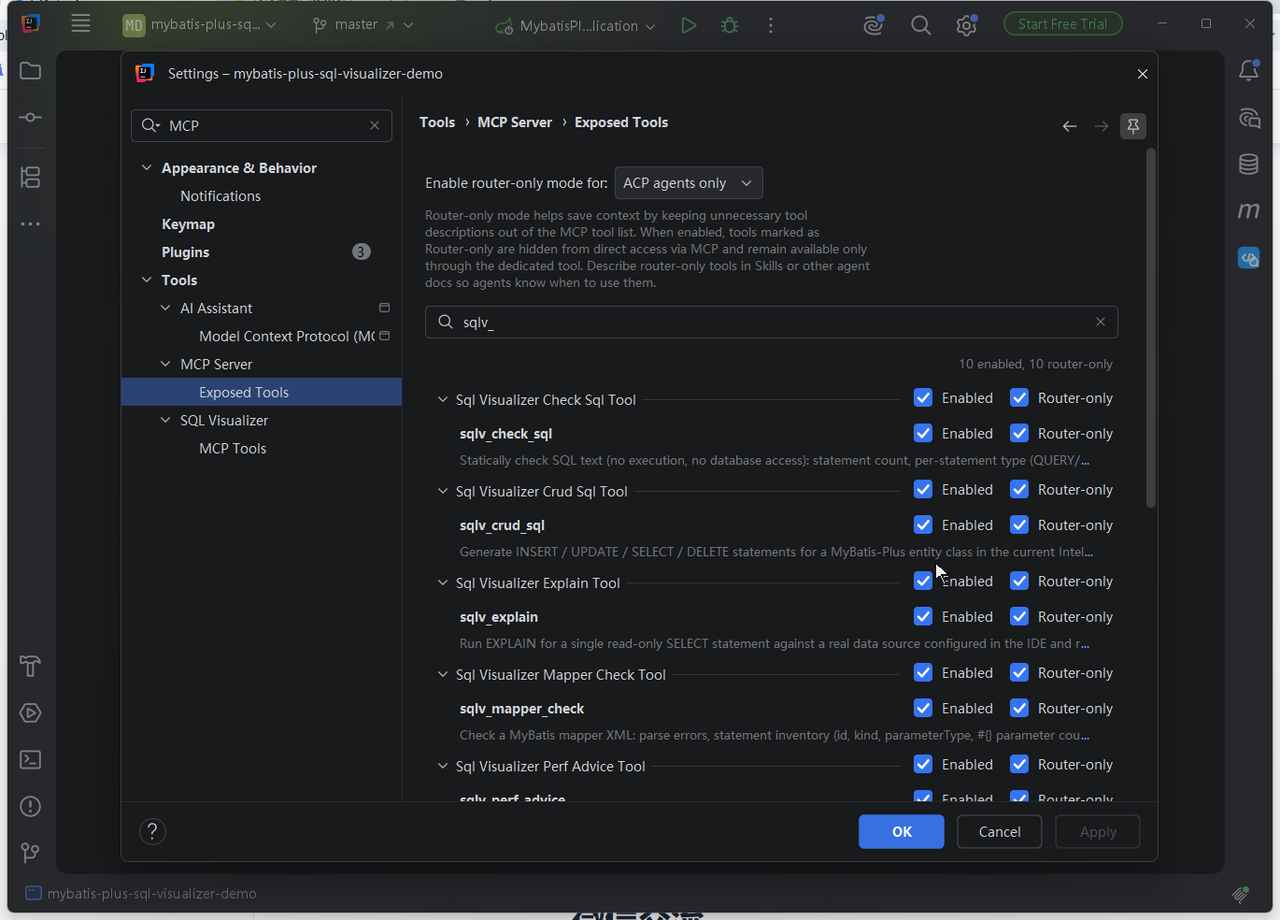
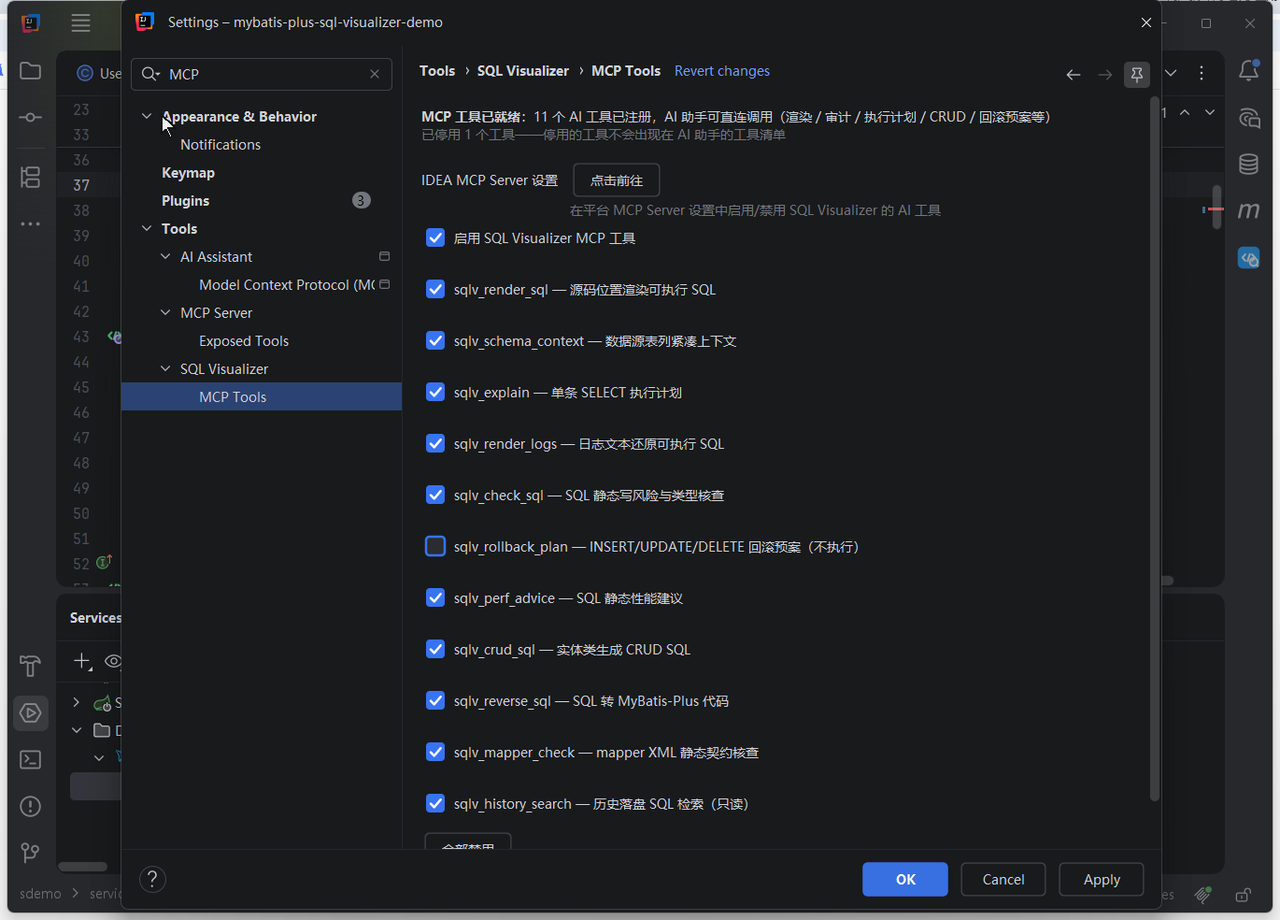
docs(demo): A29 完成——mcp.gif 重录为十一工具门控（旧片停在 10 个 + 试用态标题栏）
旧片两处过期消除：工具数 10 → 11（新增 sqlv_history_search）；标题栏 Start Free Trial。
取景口径修正：旧片拍的是 IDE 自带 Exposed Tools 页，本片按 features/mcp.md 正文口径改拍
插件自己的「MCP 工具」子页（总开关 / 十一项逐项 / 全部启用·全部禁用，已核 McpConfigurable
源码确认按钮存在）。中英 alt 同步改写为实际画面。
新片 1280×920 / 7.8s / 240KB（旧 13.34s / 557KB）。

diff --git a/docs/开发计划/20261008-1106-演示资产缺口全量盘点与录制计划-开发计划.md b/docs/开发计划/20261008-1106-演示资产缺口全量盘点与录制计划-开发计划.md
@@ -41,7 +41,7 @@
 | `xml-preview-rollback.gif/.png` | 1280×920 / 1.7MB | xml-preview「回滚 SQL」 |
 | `jpa-preview.gif/.png` | 1280×920 / 2.7MB | jpa-preview 页 hero + 本站首页模块 6 |
 | `mcp-agent.gif/.png` | 1280×920 / 1.4MB | mcp「典型工作流」+ 本站首页模块 7 |
-| `mcp.gif/.png` | 1280×920 / 557KB | mcp「设置页门控」 |
+| `mcp.gif/.png` | **1280×920 / 240KB / 7.8s（20261012 重录，旧 13.34s/557KB）** | mcp「设置页门控」 |
 | `annotation-preview.gif/.png` | 1280×920 / 912KB | annotation-preview 页 hero |
 | `batch-operation.gif/.png` | 1280×920 / 986KB | batch-operation 页 hero |
 | `code-completion.gif/.png` | 1280×920 / 335KB | code-completion 页 hero |
@@ -86,7 +86,7 @@
 | A26 | jpa-preview | Repository CRUD 写路径（原含「派生查询深化」，已拆分） | `jpa-write-path.gif`（原定名 `jpa-derived-query.gif`，按实际内容改名） | G | P1 | `save`/`deleteById` 调用行 → INSERT（带「参数列」勾选面板）/ DELETE（带逐实体 `em.remove` 语义注释）。**派生查询深化那半（Top N/First N/Distinct/Like 系列/`Page` 双 SQL）已拆出为 A46**——`@Embedded` 展平形态的派生查询已由 A17 覆盖 |
 | A27 | sql-log | 捕获诊断与授权（五态状态行 + 空态三档诊断） | `capture-diagnostics.gif` | G | P1 | 设置页增强捕获状态行五态 + 日志面板空态给出「下一步」三档提示 |
 | A28 | code-completion | 数据源字段补全 | `completion-datasource.gif` | G | P2 | 配置数据源后补全列表出现真实列名 + 注释 |
-| A29 | mcp | **设置页门控（重录，已有素材过期）** | `mcp.gif`（覆盖同名旧文件） | G | **P1** | 工具数由 10 → **11**（新增 `sqlv_history_search`），现有 `mcp.gif` 里「十个工具复选框」的画面已过期。录制要点：设置页 MCP 子页 → 十一项复选 + 全选/全不选 → 关掉一项体现门控粒度。**静态主图 `mcp-overview.svg` 已随本轮就地改好（加第 11 行、角标 4→5、两处说明文字改「十一工具」），无需重录** |
+| A29 | mcp | ~~设置页门控（重录）~~ **已于 20261012 完成** | `mcp.gif`（同名覆盖） | G | **P1** | 旧片工具数 10 且标题栏为试用态，已重录为插件「MCP 工具」子页：横幅「11 个 AI 工具已注册」+ 总开关整组置灰 + 单工具停用（横幅即时提示「已停用 1 个工具」）。**静态主图 `mcp-overview.svg` 已就地改好，无需重录** |
 
 | **★A46** | jpa-preview | 派生查询深化（从 A26 拆出） | `jpa-derived-query.gif` | G | P1 | 六种方法名前缀（`find`/`read`/`get`/`query`/`search`/`stream…By`）、`Top N`/`First N`/`Distinct`/多字段 `OrderBy`、条件关键字（`Between`/`Like` 系列自动补 `%`/`In` 面板多值/`IsNull`/`IgnoreCase`）、返回类型感知（`Page` 出 count+数据两条 SQL、`Slice` 多取一条）。落点＝`features/jpa-preview.md`「派生查询深化」节（现为纯 bullet，无图） |
 
@@ -108,7 +108,7 @@
 - `guide/shortcuts.md`、`guide/compatibility.md`、`about/roadmap.md`：纯表格 / 列表，无界面可演示。
 - `about/changelog.md`：动态数据页。
 - `about/index.md`、`about/friends.md`：已有二维码 / 友链图标，非功能演示。
-- `mcp.md`：已有示意图 SVG + 两张实拍（调用 / 门控）。**2026-10-08 变更**：工具数 10→11 后 `mcp-overview.svg` 已就地改好（加第 11 行 `sqlv_history_search`、角标 4→5、两处说明改「十一工具」），但 **`mcp.gif`（设置页门控实拍）画面里的复选框数量已过期 → 见 A29 重录**。
+- `mcp.md`：已有示意图 SVG + 两张实拍（调用 / 门控）。**2026-10-08 变更**：工具数 10→11 后 `mcp-overview.svg` 已就地改好（加第 11 行 `sqlv_history_search`、角标 4→5、两处说明改「十一工具」），**`mcp.gif`（设置页门控实拍）已于 20261012 重录为十一工具画面（见 A29）**。
 - `features/annotation-preview.md`、`crud-sql.md`、`code-completion.md`：hero 已覆盖主要交互，页内其余小节为文本说明；如后续需要再补（登记为 P2 可选：`annotation-inline.gif` / `crud-candidates.gif` / `code-completion-list.gif`）。
 
 ## 四、「慢 SQL 排查」专题（用户 2026-10-08 新增诉求）
@@ -562,3 +562,13 @@
 - **2026-10-12 批次 5 收官：`settings.png` 重拍完成（同名替换，中英 configuration 首图）**。旧图（2026-09-13 / 1125×872）左树只有 5 项，**缺「快捷键（Shortcuts）」「MCP 工具（MCP Tools）」两个子页与「SQL Visualizer (Project)」项目级页**，右侧落地卡片也只列 5 个分区。新图 **1125×875 / 54KB**：左树展开到 `Tools > SQL Visualizer > {UI and Actions, Shortcuts, SQL Preview, Table Name Mapping, SQL Log, MCP Tools, About}` + `SQL Visualizer (Project)`，右侧为七项落地卡片（界面与操作 / SQL 预览 / 表名映射 / SQL 日志 / 快捷键 / MCP 工具 / 关于）——与同批 `settings-project.png`/`settings-mcp.png`/`settings-log-list.png`/`settings-enhanced-capture.png` 同尺寸同口径。`npm run build` 通过、dist 与源 MD5 一致、中英 configuration 两页命中。
   **取图技法（可复用）**：设置对话框**不是进程主窗口**，`Get-Process.MainWindowHandle` 看不到它——用 **`EnumWindows` + `GetWindowThreadProcessId` 按 IDE 的 PID 过滤**再 `GetWindowRect` 才拿到精确边界（实测 (399,79) / 1125×875，与同批图完全一致），比按截图目测裁切可靠。
   **一处偏差（如实登记）**：同批图左树是**按 "SQL Visualizer" 过滤后**的树（搜索框有词），本次搜索框留空、树为**未过滤但滚到 Tools 段**。原因是该搜索框在本沙盒里不稳：输 `SQL Visualizer` 报 "Nothing to show"（"SQL" 被标红判为未命中）、输单字 `Visualizer` 又不筛选只自动选中根节点；且**用 Esc 关补全下拉会连设置对话框一起关掉**（Esc 是对话框的取消键）。内容口径不受影响（插件组全展开 + 落地卡片都在），故按现状交付；后续若要完全对齐同批样式，需先弄清该搜索框的匹配规则。
+
+- **2026-10-12 A29 完成：`mcp.gif` 重录（同名覆盖，十一工具）**。旧片两处过期消除：①工具数还是 **10**（现 11，新增 `sqlv_history_search`）；②标题栏是 `Start Free Trial` 试用态。新片 **1280×920 / 7.8s / 240KB**（旧 13.34s / 557KB）。
+  **取景口径修正**：旧片拍的是 IDE 自带 `Tools > MCP Server > Exposed Tools` 页；本片按 `features/mcp.md`「设置页门控」**正文**口径改拍**插件自己的「MCP 工具」子页**——正文写的是「总开关 / 十一个工具逐项启用禁用 / 全部启用·全部禁用」（已核源码：`McpConfigurable.kt` 确有该切换按钮，非文档虚构）。中英 alt 同步改写为实际画面（左树同屏可见平台 `Exposed Tools` 入口，故 alt 里那一层也没丢）。
+  **入镜流程**：横幅「11 个 AI 工具已注册」→ 总开关关（十一项**整组置灰**，横幅变「总开关当前关闭——AI 助手看不到任何工具」）→ 再开 → 单独停用 `sqlv_rollback_plan`（横幅即时变「**已停用 1 个工具**——停用的工具不会出现在 AI 助手的工具清单」）→ 复选收尾。
+  **四个环境定论（已写进脚本注释，后续拍设置页都用得上）**：
+  ① **设置页内容无法滚动**：`pyautogui.scroll` 滚轮对 Swing 页面**完全无效**，PageDown 与拖页面滚动条也无效（只有左树的滚动条拖动有效）。页面高约 750px 而对话框默认可视区仅约 715px → 底部「全部启用/全部禁用」按钮会被切掉。**处置＝把对话框标题栏上移 + 拖右下角拉高到 981px**，十一项即全部入镜（按钮仍差约 30px 只拍进一部分，故本片用**逐项复选 + 总开关**演示门控）。
+  ② **设置对话框是模态的**：它开着时对其它窗口（如 SQL 预览浮窗）的点击**一律无效**——要关预览必须先关对话框（本轮在此卡了数轮）。
+  ③ **Esc 是对话框的取消键**：用它去关搜索框的补全下拉会**连对话框一起关掉**。
+  ④ **对话框不是进程主窗口**，`Get-Process.MainWindowHandle` 看不到——须 `EnumWindows` + `GetWindowThreadProcessId` 按 PID 过滤再 `GetWindowRect`。
+  ⑤ 顺带勘正：本机**滚轮在设置页/左树均无效**，此前一度误判为「树已到底」——判滚动是否生效前先确认目标不在极限位。

diff --git a/en/features/mcp.md b/en/features/mcp.md
@@ -78,7 +78,7 @@ Every step is deterministic output: the SQL is a real rendering-chain product, t
 
 ## Settings and Gating
 
-<GifPlayer src="/demo/mcp.gif" alt="Plugin settings MCP tool gating and the platform Exposed Tools list" />
+<GifPlayer src="/demo/mcp.gif" alt="Gating on the plugin's MCP Tools settings page: the banner reports 11 registered AI tools; turning the master switch off greys out all eleven; after switching it back on, disabling sqlv_rollback_plan alone flips the banner to '1 tool disabled — disabled tools do not appear in the AI assistant tool list'; the platform Tools > MCP Server > Exposed Tools entry is visible in the same tree" />
 Settings → the "MCP Tools" page provides a gating area:
 
 - Master switch: enable or disable the plugin's MCP functionality as a whole

diff --git a/features/mcp.md b/features/mcp.md
@@ -78,7 +78,7 @@
 
 ## 设置页门控
 
-<GifPlayer src="/demo/mcp.gif" alt="插件设置页 MCP 工具门控与平台 Exposed Tools 注册面" />
+<GifPlayer src="/demo/mcp.gif" alt="插件设置页「MCP 工具」子页门控：横幅提示 11 个 AI 工具已注册，总开关关闭时十一项整组置灰；重新开启后单独停用 sqlv_rollback_plan，横幅即时变为「已停用 1 个工具——停用的工具不会出现在 AI 助手的工具清单」；左树同屏可见平台 Tools > MCP Server > Exposed Tools 入口" />
 设置 → 「MCP 工具」子页提供门控区：
 
 - 总开关：整体启停插件的 MCP 功能
